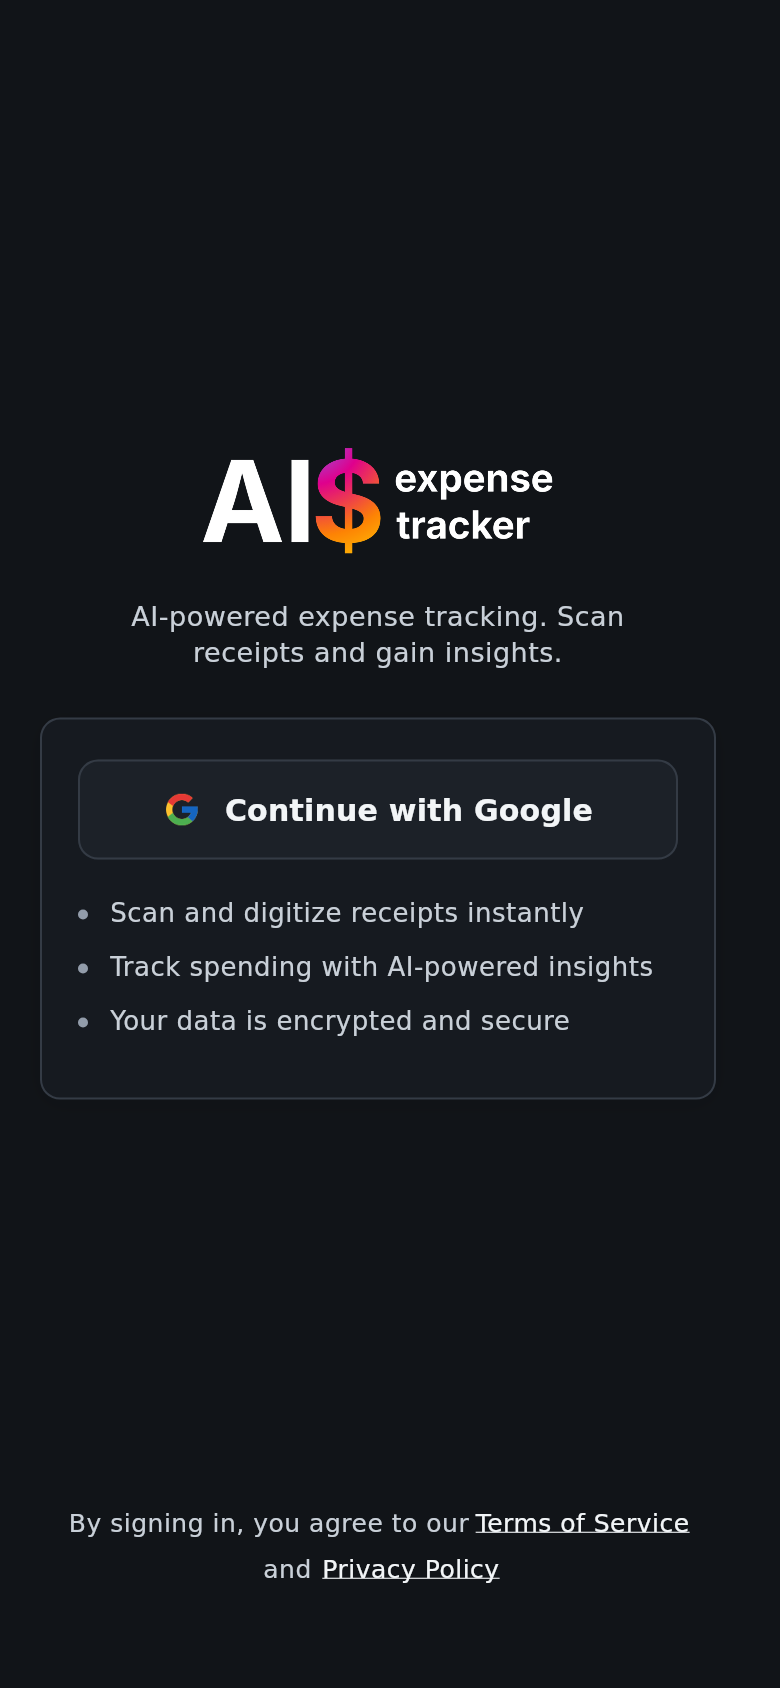
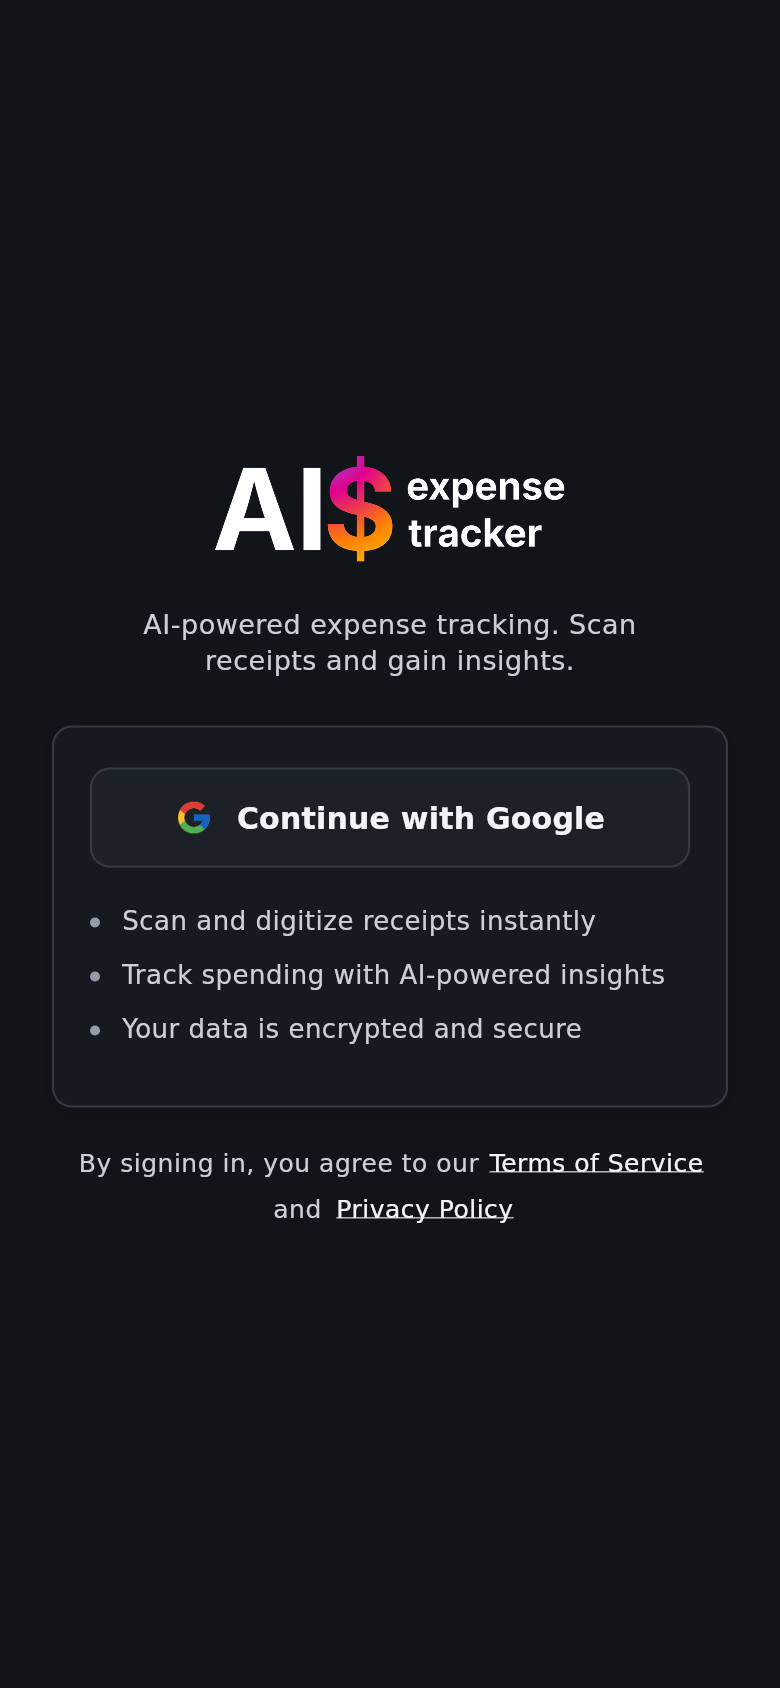
fix: center the sign-in layout at every screen width

diff --git a/expense_tracker_app/lib/screens/login_screen.dart b/expense_tracker_app/lib/screens/login_screen.dart
@@ -130,7 +130,10 @@ class _LoginScreenState extends State<LoginScreen> {
           builder: (context, constraints) {
             return SingleChildScrollView(
               child: ConstrainedBox(
-                constraints: BoxConstraints(minHeight: constraints.maxHeight),
+                constraints: BoxConstraints(
+                  minWidth: constraints.maxWidth,
+                  minHeight: constraints.maxHeight,
+                ),
                 child: Padding(
                   padding: EdgeInsets.fromLTRB(
                     horizontalPadding,
@@ -139,43 +142,34 @@ class _LoginScreenState extends State<LoginScreen> {
                     bottomSafePadding + 24,
                   ),
                   child: Column(
-                    mainAxisAlignment: MainAxisAlignment.spaceBetween,
+                    mainAxisAlignment: MainAxisAlignment.center,
                     children: [
-                      // Share the spare space above and below the sign-in group.
-                      const SizedBox.shrink(),
-                      Column(
-                        mainAxisSize: MainAxisSize.min,
-                        children: [
-                          const _BrandLockup(),
-                          const SizedBox(height: 24),
-                          _SignInCard(
-                            isLoading: _isLoading,
-                            onSignIn: _isLoading ? null : _signInWithGoogle,
-                          ),
-                          if (_sessionNotice != null) ...[
-                            const SizedBox(height: 14),
-                            _LoginMessageCard(
-                              icon: AppIcons.info,
-                              message: _sessionNotice!,
-                              tone: _LoginMessageTone.info,
-                            ),
-                          ],
-                          if (_errorMessage != null) ...[
-                            const SizedBox(height: 14),
-                            _LoginMessageCard(
-                              icon: AppIcons.circleAlert,
-                              message: _errorMessage!,
-                              tone: _LoginMessageTone.error,
-                            ),
-                          ],
-                        ],
+                      const _BrandLockup(),
+                      const SizedBox(height: 24),
+                      _SignInCard(
+                        isLoading: _isLoading,
+                        onSignIn: _isLoading ? null : _signInWithGoogle,
                       ),
-                      Padding(
-                        padding: const EdgeInsets.only(top: 24),
-                        child: _LegalFooter(
-                          onOpenTerms: _openTerms,
-                          onOpenPrivacy: _openPrivacy,
+                      if (_sessionNotice != null) ...[
+                        const SizedBox(height: 14),
+                        _LoginMessageCard(
+                          icon: AppIcons.info,
+                          message: _sessionNotice!,
+                          tone: _LoginMessageTone.info,
                         ),
+                      ],
+                      if (_errorMessage != null) ...[
+                        const SizedBox(height: 14),
+                        _LoginMessageCard(
+                          icon: AppIcons.circleAlert,
+                          message: _errorMessage!,
+                          tone: _LoginMessageTone.error,
+                        ),
+                      ],
+                      const SizedBox(height: 16),
+                      _LegalFooter(
+                        onOpenTerms: _openTerms,
+                        onOpenPrivacy: _openPrivacy,
                       ),
                     ],
                   ),
@@ -524,6 +518,7 @@ class _LegalFooter extends StatelessWidget {
     return ConstrainedBox(
       constraints: const BoxConstraints(maxWidth: 338),
       child: Wrap(
+        spacing: 2,
         alignment: WrapAlignment.center,
         crossAxisAlignment: WrapCrossAlignment.center,
         children: [

diff --git a/expense_tracker_app/test/adaptive_text_layout_test.dart b/expense_tracker_app/test/adaptive_text_layout_test.dart
@@ -40,6 +40,29 @@ void main() {
     expect(tester.takeException(), isNull);
   });
 
+  testWidgets('terms links stay close to the sign-in card on a tall screen', (
+    tester,
+  ) async {
+    fixture.phone(tester);
+    tester.view.physicalSize = const Size(390, 960);
+    await tester.pumpWidget(fixture.app(const LoginScreen()));
+    await tester.pumpAndSettle();
+
+    final strings = AppLocalizations(const Locale('en'));
+    final benefit = find.text(strings.tr('login_benefit_3'));
+    final terms = find.text(strings.tr('login_legal_prefix'));
+    final gap = tester.getTopLeft(terms).dy - tester.getBottomLeft(benefit).dy;
+    expect(gap, inInclusiveRange(16, 55));
+
+    for (final width in [390.0, 768.0]) {
+      tester.view.physicalSize = Size(width, 960);
+      await tester.pumpAndSettle();
+      final button = tester.getRect(find.byType(OutlinedButton));
+      expect(button.center.dx, closeTo(width / 2, .01));
+    }
+    expect(tester.takeException(), isNull);
+  });
+
   for (final locale in [
     const Locale('en'),
     const Locale('de'),
